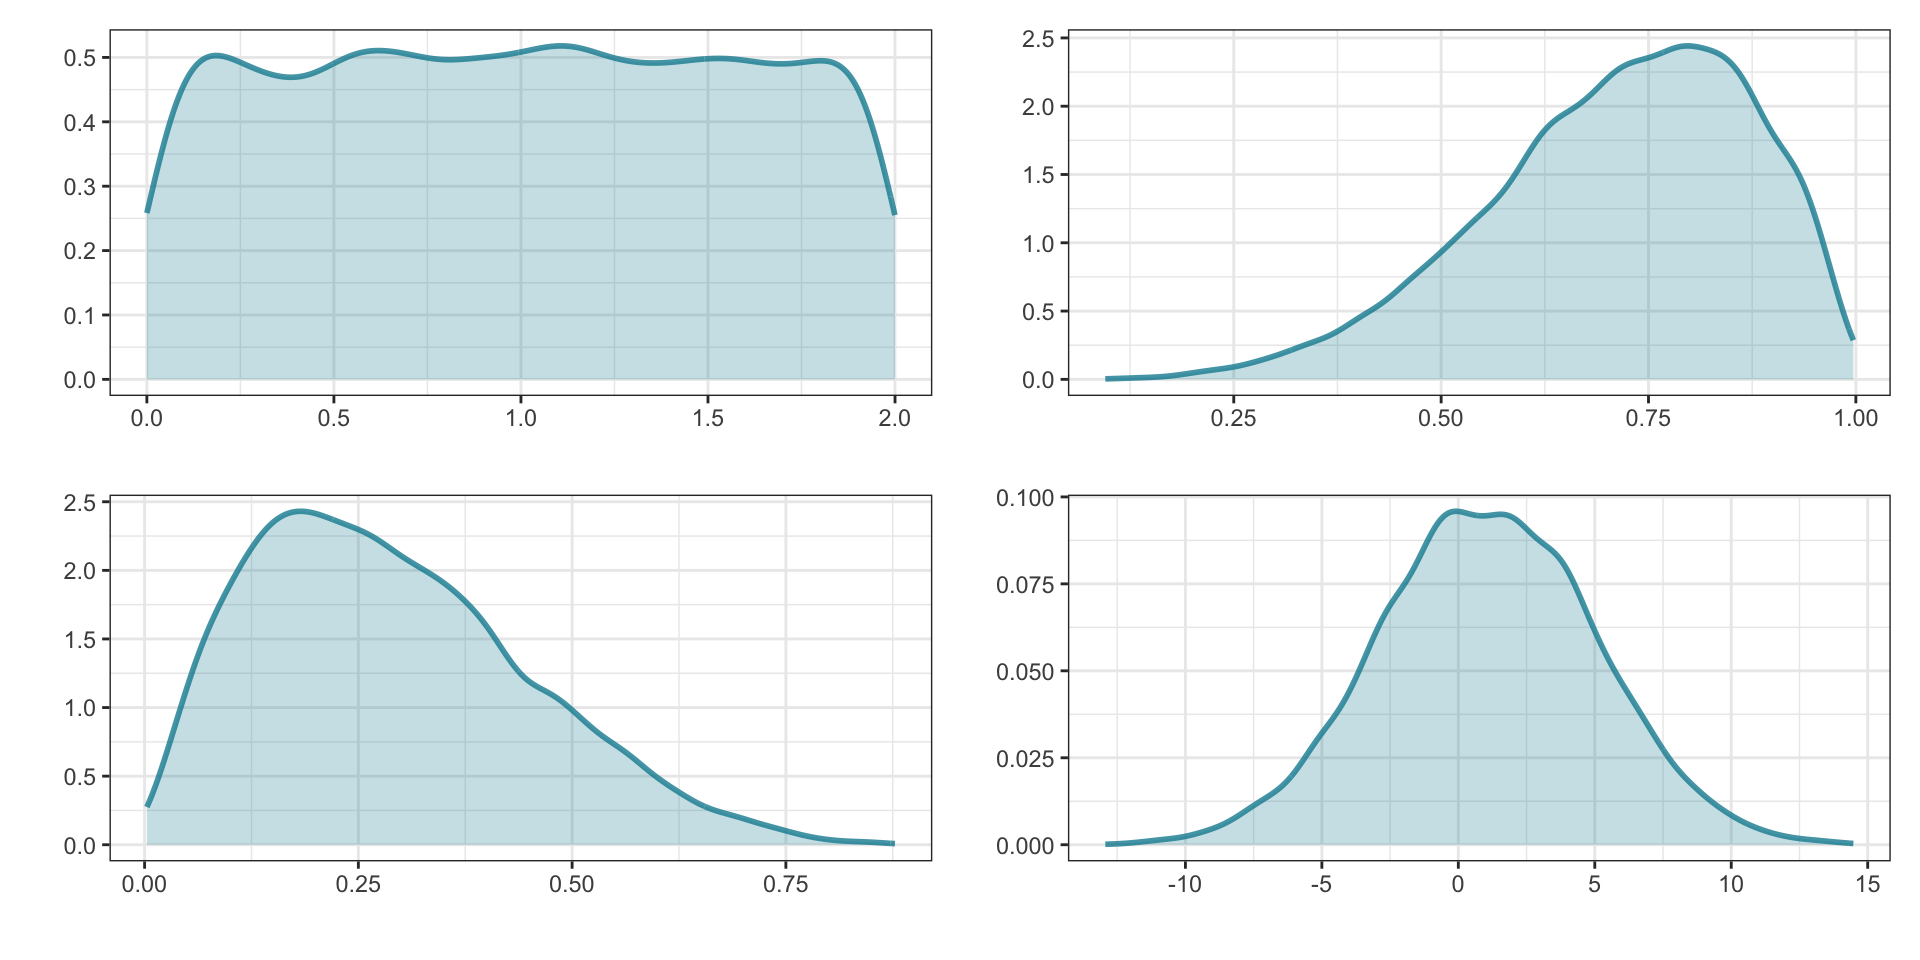
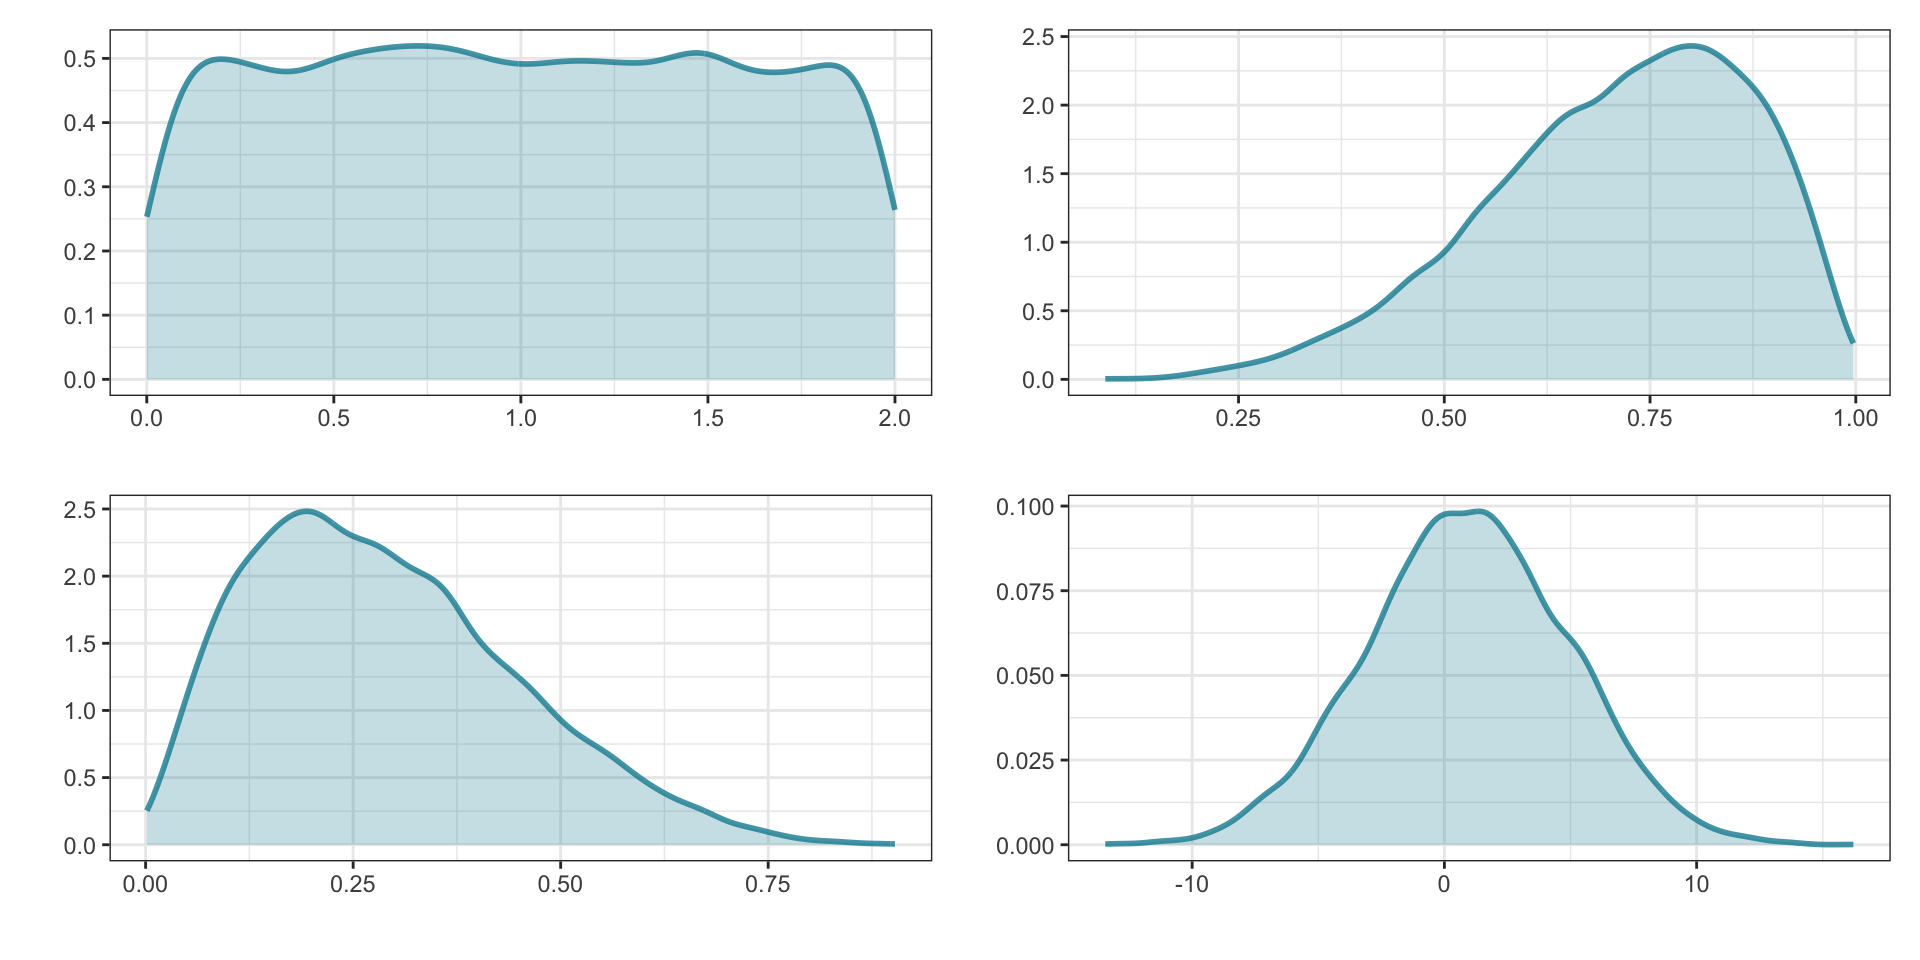
fehlerbehebung folien 4

diff --git a/docs/Sitzung_3.html b/docs/Sitzung_3.html
@@ -270,106 +270,106 @@ Eva Scheel
 <div class="cell">
 <div class="cell-output cell-output-stdout">
 <pre><code>    groesse_cm
-1        137.8
-2        122.4
-3        125.1
-4        141.1
-5        139.9
-6        147.9
-7        158.8
-8        123.5
-9        136.8
-10       147.1
-11       136.0
-12       138.5
-13       138.0
-14       143.6
-15       139.7
-16       130.7
-17       147.2
-18       136.6
-19       142.8
-20       147.9
-21       141.3
-22       160.3
-23       129.9
-24       136.7
-25       147.3
-26       150.0
-27       142.5
-28       143.2
-29       122.4
-30       143.4
-31       124.7
-32       139.0
-33       138.4
-34       136.1
-35       149.4
-36       148.9
-37       146.8
-38       141.0
-39       125.7
-40       144.2
-41       144.7
-42       134.1
-43       136.2
-44       129.9
-45       147.5
-46       133.7
-47       153.4
-48       131.2
-49       144.3
-50       136.1
-51       144.1
-52       166.4
-53       151.4
-54       153.8
-55       158.1
-56       127.5
-57       136.1
-58       132.4
-59       141.7
-60       141.5
-61       135.1
-62       140.1
-63       139.1
-64       135.2
-65       146.2
-66       137.2
-67       124.2
-68       143.1
-69       143.6
-70       170.6
-71       144.9
-72       169.2
-73       154.6
-74       138.7
-75       139.0
-76       140.4
-77       132.9
-78       150.3
-79       131.6
-80       135.7
-81       127.0
-82       135.1
-83       129.1
-84       137.2
+1        129.5
+2        150.8
+3        143.8
+4        161.1
+5        143.0
+6        153.4
+7        126.6
+8        123.1
+9        125.8
+10       156.8
+11       129.7
+12       140.1
+13       145.5
+14       145.8
+15       117.6
+16       133.7
+17       142.8
+18       131.2
+19       154.3
+20       145.3
+21       144.1
+22       141.4
+23       138.1
+24       142.9
+25       144.3
+26       159.8
+27       151.0
+28       143.4
+29       138.6
+30       148.2
+31       122.3
+32       146.8
+33       157.2
+34       136.4
+35       129.6
+36       145.6
+37       160.9
+38       117.3
+39       145.6
+40       143.0
+41       138.4
+42       145.8
+43       137.3
+44       132.4
+45       140.7
+46       137.3
+47       149.9
+48       163.7
+49       155.0
+50       144.3
+51       149.8
+52       133.7
+53       131.8
+54       130.8
+55       148.5
+56       149.2
+57       130.0
+58       141.2
+59       141.2
+60       131.2
+61       135.2
+62       146.6
+63       143.6
+64       145.1
+65       135.7
+66       117.7
+67       142.4
+68       142.2
+69       143.2
+70       129.7
+71       155.1
+72       142.0
+73       127.5
+74       149.9
+75       132.4
+76       132.6
+77       134.7
+78       145.3
+79       131.4
+80       154.9
+81       130.1
+82       132.6
+83       143.2
+84       145.5
 85       128.3
-86       133.5
-87       130.2
-88       121.2
-89       157.3
-90       150.9
-91       147.6
-92       127.8
-93       134.8
-94       132.5
-95       140.6
-96       147.0
-97       136.9
-98       136.3
-99       131.4
-100      125.4</code></pre>
+86       135.9
+87       139.8
+88       133.2
+89       140.8
+90       148.5
+91       134.4
+92       131.3
+93       148.4
+94       148.0
+95       142.4
+96       133.2
+97       149.2
+98       131.9
+99       147.7
+100      137.0</code></pre>
 </div>
 </div>
 </div><div class="column">
@@ -378,10 +378,10 @@ Eva Scheel
 <pre><code>[1] "Anzahl Schüler:innen: 100"</code></pre>
 </div>
 <div class="cell-output cell-output-stdout">
-<pre><code>[1] "Höchstwert: 121.2"</code></pre>
+<pre><code>[1] "Höchstwert: 117.3"</code></pre>
 </div>
 <div class="cell-output cell-output-stdout">
-<pre><code>[1] "Tiefstwert: 170.6"</code></pre>
+<pre><code>[1] "Tiefstwert: 163.7"</code></pre>
 </div>
 </div>
 </div></div>
@@ -394,7 +394,7 @@ Eva Scheel
 <div class="cell">
 <div class="code-copy-outer-scaffold"><div class="sourceCode cell-code" id="cb5"><pre class="sourceCode numberSource r number-lines code-with-copy"><code class="sourceCode r"><span id="cb5-1"><a></a><span class="fu">mean</span>(heights<span class="sc">$</span>groesse_cm)</span></code></pre></div><button title="Copy to Clipboard" class="code-copy-button"><i class="bi"></i></button></div>
 <div class="cell-output cell-output-stdout">
-<pre><code>[1] 139.985</code></pre>
+<pre><code>[1] 140.572</code></pre>
 </div>
 </div>
 <p>Bezeichnung: <span class="math inline">\(M=`m`\)</span> oder <span class="math inline">\(\bar{x}\)</span></p>
@@ -422,21 +422,21 @@ Eva Scheel
 </div>
 <div class="code-copy-outer-scaffold"><div class="sourceCode cell-code" id="cb9"><pre class="sourceCode numberSource r number-lines code-with-copy"><code class="sourceCode r"><span id="cb9-1"><a></a>sorted_heights</span></code></pre></div><button title="Copy to Clipboard" class="code-copy-button"><i class="bi"></i></button></div>
 <div class="cell-output cell-output-stdout">
-<pre><code>  [1] 121.2 122.4 122.4 123.5 124.2 124.7 125.1 125.4 125.7 127.0 127.5 127.8
- [13] 128.3 129.1 129.9 129.9 130.2 130.7 131.2 131.4 131.6 132.4 132.5 132.9
- [25] 133.5 133.7 134.1 134.8 135.1 135.1 135.2 135.7 136.0 136.1 136.1 136.1
- [37] 136.2 136.3 136.6 136.7 136.8 136.9 137.2 137.2 137.8 138.0 138.4 138.5
- [49] 138.7 139.0 139.0 139.1 139.7 139.9 140.1 140.4 140.6 141.0 141.1 141.3
- [61] 141.5 141.7 142.5 142.8 143.1 143.2 143.4 143.6 143.6 144.1 144.2 144.3
- [73] 144.7 144.9 146.2 146.8 147.0 147.1 147.2 147.3 147.5 147.6 147.9 147.9
- [85] 148.9 149.4 150.0 150.3 150.9 151.4 153.4 153.8 154.6 157.3 158.1 158.8
- [97] 160.3 166.4 169.2 170.6</code></pre>
+<pre><code>  [1] 117.3 117.6 117.7 122.3 123.1 125.8 126.6 127.5 128.3 129.5 129.6 129.7
+ [13] 129.7 130.0 130.1 130.8 131.2 131.2 131.3 131.4 131.8 131.9 132.4 132.4
+ [25] 132.6 132.6 133.2 133.2 133.7 133.7 134.4 134.7 135.2 135.7 135.9 136.4
+ [37] 137.0 137.3 137.3 138.1 138.4 138.6 139.8 140.1 140.7 140.8 141.2 141.2
+ [49] 141.4 142.0 142.2 142.4 142.4 142.8 142.9 143.0 143.0 143.2 143.2 143.4
+ [61] 143.6 143.8 144.1 144.3 144.3 145.1 145.3 145.3 145.5 145.5 145.6 145.6
+ [73] 145.8 145.8 146.6 146.8 147.7 148.0 148.2 148.4 148.5 148.5 149.2 149.2
+ [85] 149.8 149.9 149.9 150.8 151.0 153.4 154.3 154.9 155.0 155.1 156.8 157.2
+ [97] 159.8 160.9 161.1 163.7</code></pre>
 </div>
 </div>
 <div class="cell">
 <div class="code-copy-outer-scaffold"><div class="sourceCode cell-code" id="cb11"><pre class="sourceCode numberSource r number-lines code-with-copy"><code class="sourceCode r"><span id="cb11-1"><a></a><span class="fu">median</span>(heights<span class="sc">$</span>groesse_cm)</span></code></pre></div><button title="Copy to Clipboard" class="code-copy-button"><i class="bi"></i></button></div>
 <div class="cell-output cell-output-stdout">
-<pre><code>[1] 139</code></pre>
+<pre><code>[1] 142.1</code></pre>
 </div>
 </div>
 
@@ -463,9 +463,9 @@ Eva Scheel
 <div class="cell-output cell-output-stdout">
 <pre><code>
    Biologie      Chemie     Deutsch    Englisch Französisch  Mathematik 
-         16          19           9          18           9          21 
+         11          13          15          17          20          15 
       Musik      Physik       Sport 
-         19          19          20 </code></pre>
+         20          19          20 </code></pre>
 </div>
 </div>
 <p>Anzahl Schüler:innen pro Hobby:</p>
@@ -473,9 +473,9 @@ Eva Scheel
 <div class="cell-output cell-output-stdout">
 <pre><code>
      Backgammon       Hula_Hoop      Kanufahren Modelleisenbahn         Posaune 
-             30              30              25              27              19 
+             35              19              21              25              18 
    Seilspringen 
-             19 </code></pre>
+             32 </code></pre>
 </div>
 </div>
 <p><span class="absolute" style="font-size: 70%; color: #6f5c7dea; bottom: 10px; ">*Erfundener Datensatz!</span></p>
@@ -495,20 +495,20 @@ Eva Scheel
 <div class="cell-output cell-output-stdout">
 <pre><code>                 
                   Biologie Chemie Deutsch Englisch Französisch Mathematik Musik
-  Backgammon             0      4       1        5           3         10     1
-  Hula_Hoop              4      4       2        5           1          3     5
-  Kanufahren             3      4       0        4           1          2     4
-  Modelleisenbahn        5      2       2        2           2          3     3
-  Posaune                1      3       2        2           2          1     3
-  Seilspringen           3      2       2        0           0          2     3
+  Backgammon             4      1       4        3           6          3     2
+  Hula_Hoop              2      2       0        5           2          2     3
+  Kanufahren             3      2       2        2           2          1     2
+  Modelleisenbahn        1      3       2        5           1          2     6
+  Posaune                0      2       4        0           4          3     1
+  Seilspringen           1      3       3        2           5          4     6
                  
                   Physik Sport
-  Backgammon           4     2
-  Hula_Hoop            3     3
-  Kanufahren           5     2
-  Modelleisenbahn      2     6
-  Posaune              2     3
-  Seilspringen         3     4</code></pre>
+  Backgammon           5     7
+  Hula_Hoop            1     2
+  Kanufahren           4     3
+  Modelleisenbahn      4     1
+  Posaune              4     0
+  Seilspringen         1     7</code></pre>
 </div>
 </div>
 </section>
@@ -735,7 +735,7 @@ SD = \sqrt{\frac{\sum (x-\bar{x})^2}{n-1}}
 </div>
 </div>
 <div class="cell-output cell-output-stdout">
-<pre><code>[1] 30.19578</code></pre>
+<pre><code>[1] 30.64609</code></pre>
 </div>
 </div>
 </div></div>

diff --git a/docs/Sitzung_4.html b/docs/Sitzung_4.html
@@ -261,7 +261,7 @@ Eva Scheel
 <div class="cell">
 <div class="code-copy-outer-scaffold"><div class="sourceCode cell-code" id="cb1"><pre class="sourceCode numberSource r number-lines code-with-copy"><code class="sourceCode r"><span id="cb1-1"><a></a><span class="fu">mean</span>(noten_daten<span class="sc">$</span>note)</span></code></pre></div><button title="Copy to Clipboard" class="code-copy-button"><i class="bi"></i></button></div>
 <div class="cell-output cell-output-stdout">
-<pre><code>[1] 3.313</code></pre>
+<pre><code>[1] 3.355</code></pre>
 </div>
 <div class="code-copy-outer-scaffold"><div class="sourceCode cell-code" id="cb3"><pre class="sourceCode numberSource r number-lines code-with-copy"><code class="sourceCode r"><span id="cb3-1"><a></a><span class="fu">median</span>(noten_daten<span class="sc">$</span>note)</span></code></pre></div><button title="Copy to Clipboard" class="code-copy-button"><i class="bi"></i></button></div>
 <div class="cell-output cell-output-stdout">
@@ -270,12 +270,12 @@ Eva Scheel
 <div class="code-copy-outer-scaffold"><div class="sourceCode cell-code" id="cb5"><pre class="sourceCode numberSource r number-lines code-with-copy"><code class="sourceCode r"><span id="cb5-1"><a></a>noten_daten <span class="sc">|&gt;</span> <span class="fu">count</span>(note) <span class="sc">|&gt;</span> <span class="fu">arrange</span>(<span class="fu">desc</span>(n))</span></code></pre></div><button title="Copy to Clipboard" class="code-copy-button"><i class="bi"></i></button></div>
 <div class="cell-output cell-output-stdout">
 <pre><code>  note   n
-1    3 312
-2    4 292
-3    5 158
-4    2 141
-5    1  89
-6    6   8</code></pre>
+1    4 335
+2    3 276
+3    5 153
+4    2 136
+5    1  90
+6    6  10</code></pre>
 </div>
 </div>
 </div><div class="column">
@@ -510,7 +510,7 @@ Eva Scheel
 </div>
 </div>
 </div></div>
-<p><span class="absolute" style="color: #5a4769ea; font-size: 80%; bottom: 50px; ">Schau z.B. dieses <a href="https://www.youtube.com/watch?v=okjYjClSjOg">YouTube-Video</a> für eine Erklärung, wie Q-Q-Diagramme genau erstellt werden.</span></p>
+<p><span class="absolute" style="color: #5a4769ea; font-size: 80%; bottom: 5px; ">Schau z.B. dieses <a href="https://www.youtube.com/watch?v=okjYjClSjOg">YouTube-Video</a> für eine Erklärung, wie Q-Q-Diagramme genau erstellt werden.</span></p>
 </section>
 <section class="slide level2">
 
